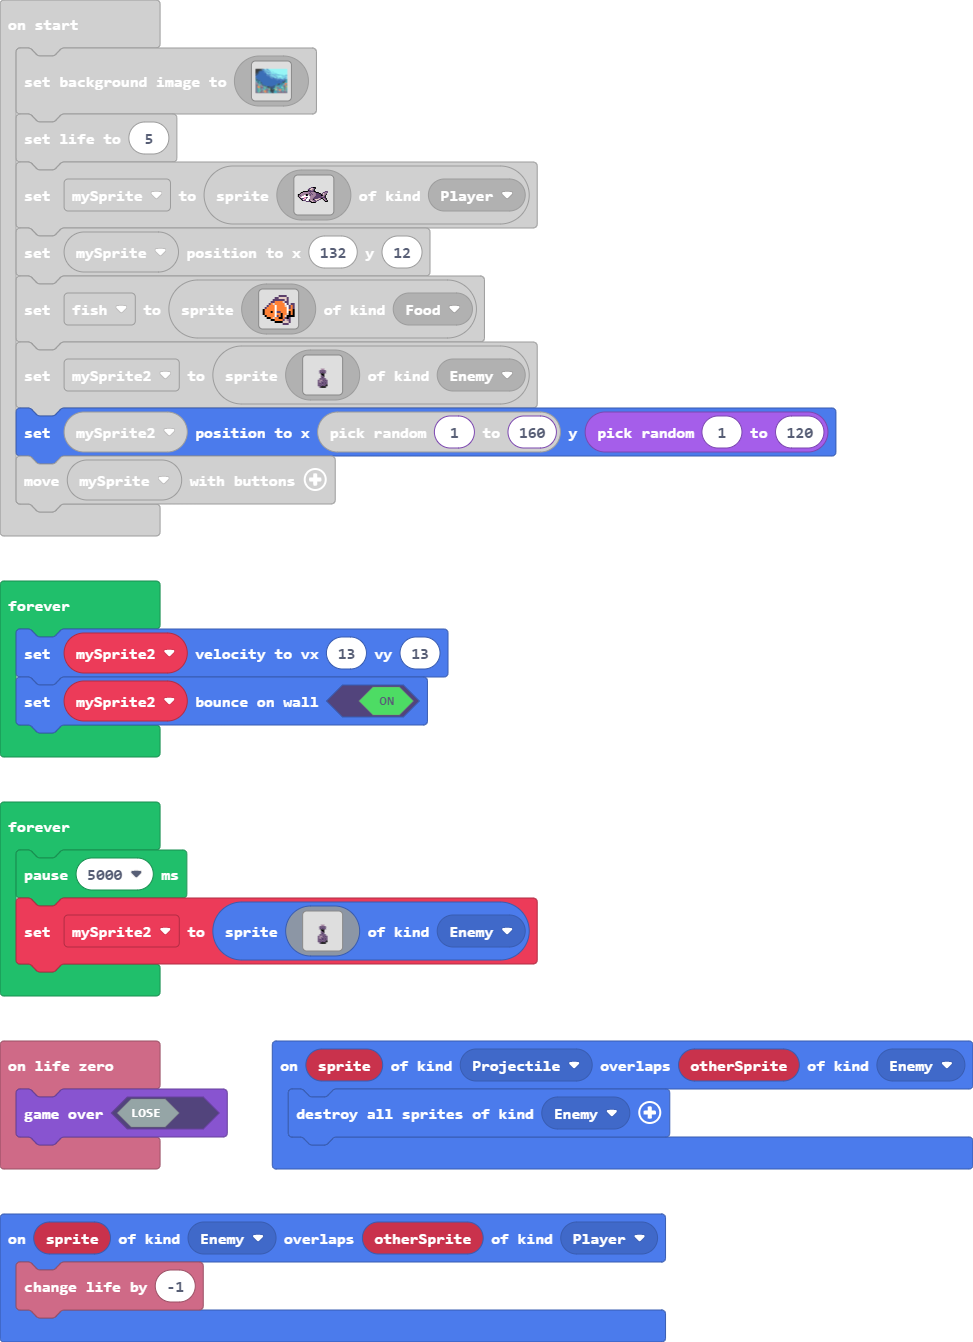
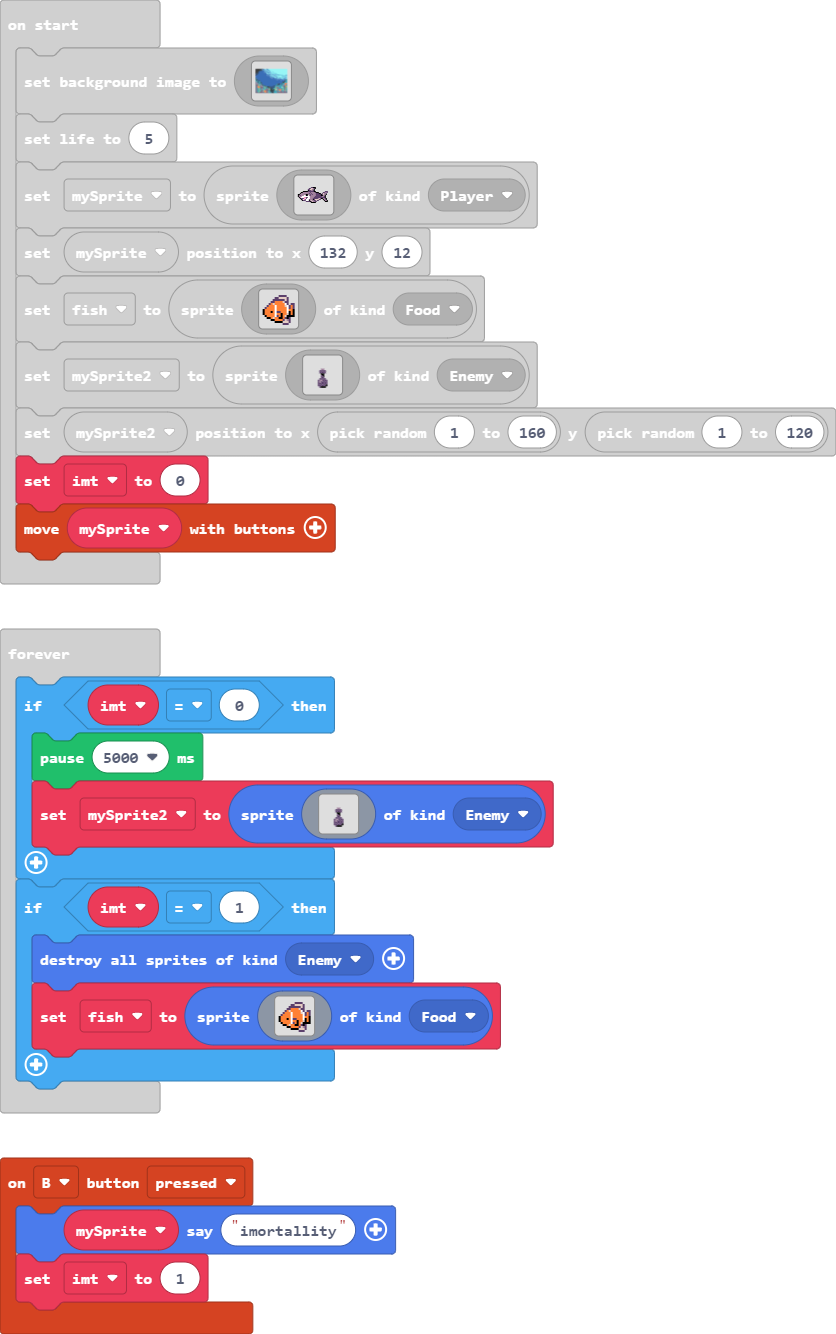
Update main.blocks, main.ts

diff --git a/main.ts b/main.ts
@@ -1,3 +1,7 @@
+controller.B.onEvent(ControllerButtonEvent.Pressed, function () {
+    mySprite.sayText("imortallity")
+    imt = 1
+})
 sprites.onDestroyed(SpriteKind.Food, function (sprite) {
     fish = sprites.create(img`
         . . . . . . . . . . . . . . . . 
@@ -79,6 +83,7 @@ sprites.onOverlap(SpriteKind.Projectile, SpriteKind.Enemy, function (sprite, oth
     sprites.destroyAllSpritesOfKind(SpriteKind.Enemy)
 })
 let projectile: Sprite = null
+let imt = 0
 let mySprite2: Sprite = null
 let fish: Sprite = null
 let mySprite: Sprite = null
@@ -265,6 +270,7 @@ mySprite2 = sprites.create(img`
     ....................
     `, SpriteKind.Enemy)
 mySprite2.setPosition(randint(1, 160), randint(1, 120))
+imt = 0
 controller.moveSprite(mySprite)
 forever(function () {
     characterAnimations.runFrames(
@@ -498,27 +504,50 @@ forever(function () {
     mySprite2.setBounceOnWall(true)
 })
 forever(function () {
-    pause(5000)
-    mySprite2 = sprites.create(img`
-        ....................
-        ....................
-        ....................
-        ....................
-        ....................
-        ....................
-        .........bb.........
-        ........cccc........
-        ........cccc........
-        .........ff.........
-        .........cf.........
-        .........cc.........
-        ........cccc........
-        .......cbbccc.......
-        .......cbcccc.......
-        .......cccccc.......
-        .......cccccf.......
-        ........cfff........
-        ....................
-        ....................
-        `, SpriteKind.Enemy)
+    if (imt == 0) {
+        pause(5000)
+        mySprite2 = sprites.create(img`
+            ....................
+            ....................
+            ....................
+            ....................
+            ....................
+            ....................
+            .........bb.........
+            ........cccc........
+            ........cccc........
+            .........ff.........
+            .........cf.........
+            .........cc.........
+            ........cccc........
+            .......cbbccc.......
+            .......cbcccc.......
+            .......cccccc.......
+            .......cccccf.......
+            ........cfff........
+            ....................
+            ....................
+            `, SpriteKind.Enemy)
+    }
+    if (imt == 1) {
+        sprites.destroyAllSpritesOfKind(SpriteKind.Enemy)
+        fish = sprites.create(img`
+            . . . . . . . . . . . . . . . . 
+            . . . . . . . . c c c c . . . . 
+            . . . . . . c c d d d d c . . . 
+            . . . . . c c c c c c d c . . . 
+            . . . . c c 4 4 4 4 d c c . . . 
+            . . . c 4 d 4 4 4 4 4 1 c . c c 
+            . . c 4 4 4 1 4 4 4 4 d 1 c 4 c 
+            . c 4 4 4 4 1 4 4 4 4 4 1 c 4 c 
+            f 4 4 4 4 4 1 4 4 4 4 4 1 4 4 f 
+            f 4 4 4 f 4 1 c c 4 4 4 1 f 4 f 
+            f 4 4 4 4 4 1 4 4 f 4 4 d f 4 f 
+            . f 4 4 4 4 1 c 4 f 4 d f f f f 
+            . . f f 4 d 4 4 f f 4 c f c . . 
+            . . . . f f 4 4 4 4 c d b c . . 
+            . . . . . . f f f f d d d c . . 
+            . . . . . . . . . . c c c . . . 
+            `, SpriteKind.Food)
+    }
 })
